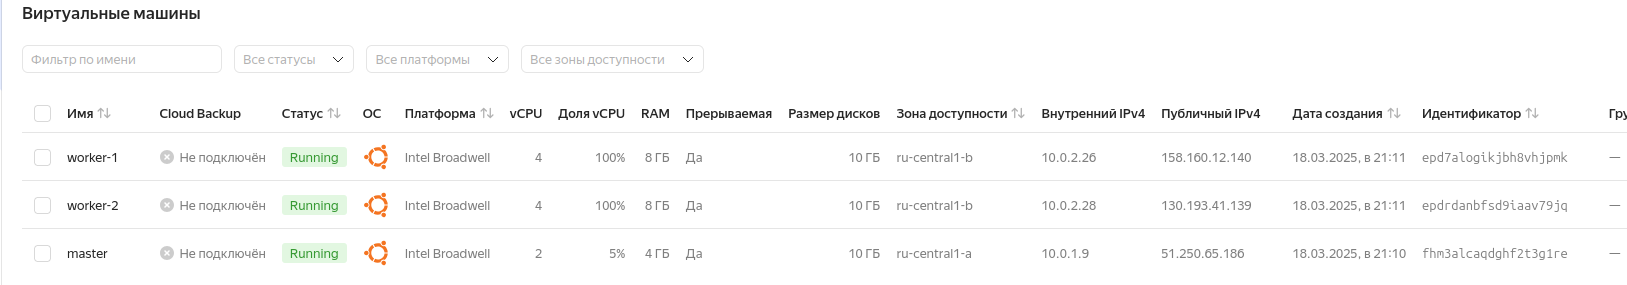
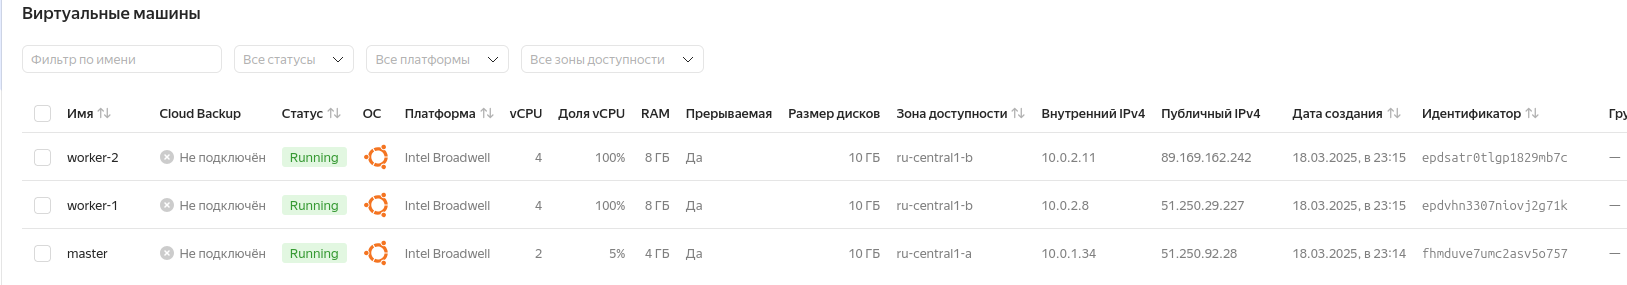
2

diff --git a/README.md b/README.md
@@ -27,3 +27,15 @@ terraform apply destroy -auto-approve отрабатывают
 
 ![alt text](img/image-6.png)
 
+установка k8s кластера, через ansible роль, с подготовленным через терраформ конфиг темплейтом для передачи адресов вм
+
+
+![alt text](img/image-7.png)
+
+создан конфиг и проверена работоспособность кластера.
+
+![alt text](img/image-8.png)
+
+
+### Создание тестового приложения
+
